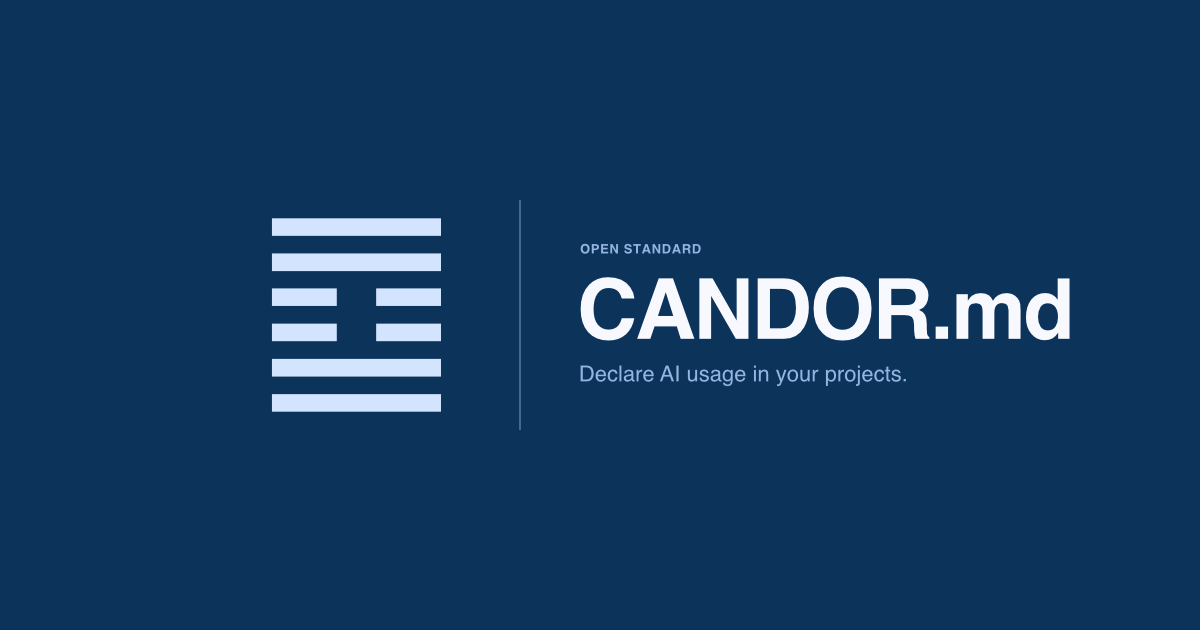
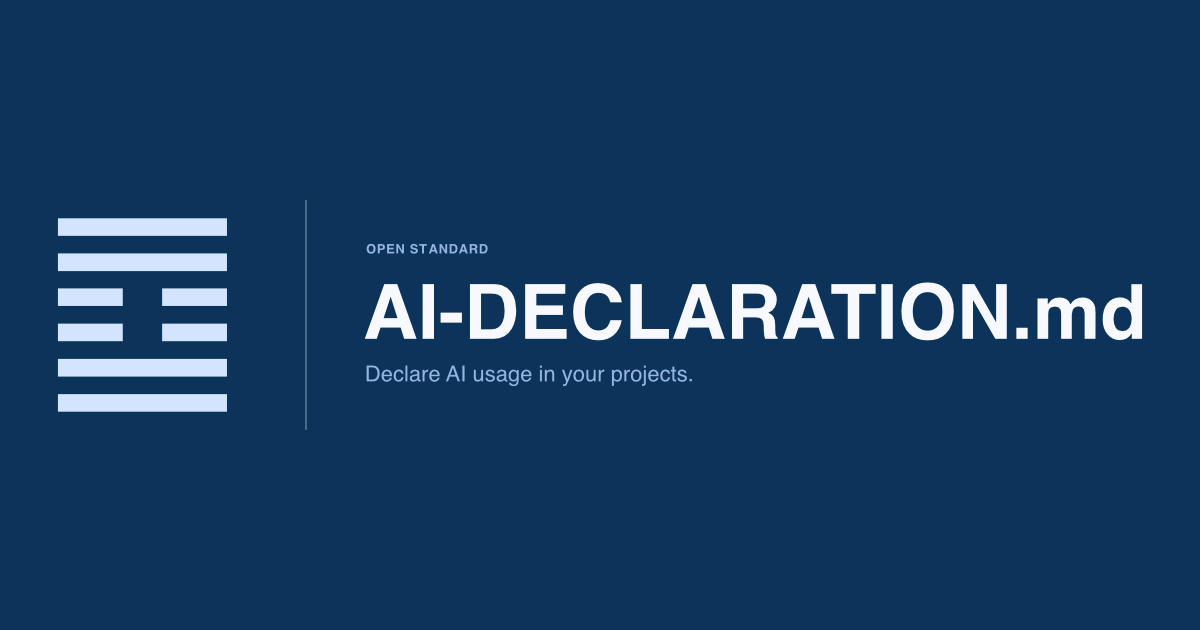
feat!: add v0.1.1 with rename to AI-DECLARATION.md for simplicity

Changed region(s): [[0.0308, 0.3317, 0.9558, 0.6635]]

diff --git a/site/index.html b/site/index.html
@@ -3,18 +3,18 @@
 <head>
   <meta charset="UTF-8">
   <meta name="viewport" content="width=device-width, initial-scale=1.0">
-  <title>CANDOR.md | Open Standard for AI Usage Transparency</title>
-  <meta name="description" content="An open standard for declaring AI usage in software projects. Like a LICENSE or README, CANDOR.md makes AI involvement transparent and consistent.">
+  <title>AI-DECLARATION.md | Open Standard for AI Usage Transparency</title>
+  <meta name="description" content="An open standard for declaring AI usage in software projects. Like a LICENSE or README, AI-DECLARATION.md makes AI involvement transparent and consistent.">
   <meta property="og:type" content="website">
-  <meta property="og:title" content="CANDOR.md | Open Standard for AI Usage Transparency">
-  <meta property="og:description" content="An open standard for declaring AI usage in software projects. Like a LICENSE or README, CANDOR.md makes AI involvement transparent and consistent.">
-  <meta property="og:image" content="https://candor.md/www/og-image.png">
-  <meta property="og:url" content="https://candor.md">
-  <meta property="og:site_name" content="CANDOR.md">
+  <meta property="og:title" content="AI-DECLARATION.md | Open Standard for AI Usage Transparency">
+  <meta property="og:description" content="An open standard for declaring AI usage in software projects. Like a LICENSE or README, AI-DECLARATION.md makes AI involvement transparent and consistent.">
+  <meta property="og:image" content="https://ai-declaration.md/www/og-image.png">
+  <meta property="og:url" content="https://ai-declaration.md">
+  <meta property="og:site_name" content="AI-DECLARATION.md">
   <meta name="twitter:card" content="summary_large_image">
-  <meta name="twitter:title" content="CANDOR.md | Open Standard for AI Usage Transparency">
-  <meta name="twitter:description" content="An open standard for declaring AI usage in software projects. Like a LICENSE or README, CANDOR.md makes AI involvement transparent and consistent.">
-  <meta name="twitter:image" content="https://candor.md/www/og-image.png">
+  <meta name="twitter:title" content="AI-DECLARATION.md | Open Standard for AI Usage Transparency">
+  <meta name="twitter:description" content="An open standard for declaring AI usage in software projects. Like a LICENSE or README, AI-DECLARATION.md makes AI involvement transparent and consistent.">
+  <meta name="twitter:image" content="https://ai-declaration.md/www/og-image.png">
   <link rel="icon" href="www/logo.svg">
   <link rel="preconnect" href="https://fonts.googleapis.com">
   <link rel="preconnect" href="https://fonts.gstatic.com" crossorigin>
@@ -25,18 +25,18 @@
 
 <nav>
   <a class="nav-mark" href="#">
-    <span class="hex">䷼</span> CANDOR.md
+    <span class="hex">䷼</span> AI-DECLARATION.md
   </a>
   <div class="nav-right">
     <span class="nav-version">v0.1.0</span>
-    <a href="https://github.com/DimwitLabs/CANDOR.md">GitHub</a>
+    <a href="https://github.com/DimwitLabs/AI-DECLARATION.md">GitHub</a>
   </div>
 </nav>
 
 <div class="wrap">
 
   <section id="hero">
-    <div class="hero-title"><span class="hero-hex">䷼</span><h1>CANDOR.md</h1></div>
+    <div class="hero-title"><span class="hero-hex">䷼</span><h1>AI-DECLARATION.md</h1></div>
     <div class="hero-nav">
       <a href="#summary">Summary</a>
       <span class="hero-nav-sep">·</span>
@@ -53,15 +53,14 @@
 
   <section class="doc-section" id="summary">
     <h2>Summary</h2>
-    <p>AI-generated code is a reality of our time and it is both a blessing and a curse. The problem is not the code in itself but transparency and clarity. At least, that is the working theory of this specification. The suggestion is simple: to invite everyone to include a structured <code>CANDOR.md</code> file like they include other files in a repository to make the AI-usage crystal clear <em>and</em>, more importantly, to make it a widespread convention to do so.</p>
+    <p>AI-generated code is a reality of our time and it is both a blessing and a curse. The problem is not the code in itself but transparency and clarity. At least, that is the working theory of this specification. The suggestion is simple: to invite everyone to include a structured <code>AI-DECLARATION.md</code> file like they include other files in a repository to make the AI-usage crystal clear <em>and</em>, more importantly, to make it a widespread convention to do so.</p>
     <p>This is not to discourage usage of LLM- and other code-generation in the future. On the contrary, it is an enabler. When you declare what parts of the code were, in fact, generated, a skeptic can immediately look into just those parts to satisfy their urge to re-verify and double-check. And, it lets the creator showcase their skillset with code and their skillset with planning and other soft skills simultaneously and with clarity.</p>
-    <p>The name is intentional. Candor is a noun meaning:</p>
     <blockquote>The quality of being open and honest; frankness.</blockquote>
   </section>
 
   <section class="doc-section" id="specification">
     <h2>Specification</h2>
-    <p>A <code>CANDOR.md</code> file uses YAML frontmatter for structured fields, followed by a required <code>## Notes</code> section in the markdown body for human context. At minimum, it requires <code>version</code>, <code>level</code>, and a <code>## Notes</code> section.</p>
+    <p>An <code>AI-DECLARATION.md</code> file uses YAML frontmatter for structured fields, followed by a required <code>## Notes</code> section in the markdown body for human context. At minimum, it requires <code>version</code>, <code>level</code>, and a <code>## Notes</code> section.</p>
     <p>Optionally, you can declare <code>processes</code>, each with their own level. The global <code>level</code> must be the highest level present. Any process not listed is assumed to be <code>none</code> implicitly. You can also list <code>components</code> (file paths or directories) with individual levels.</p>
     <p>The specification formally defines <code>version</code>, <code>level</code>, <code>processes</code>, and <code>components</code>.</p>
 
@@ -92,7 +91,7 @@
 
     <div class="example-group">
       <p class="example-hed">Simple</p>
-      <p>The simplest <code>CANDOR.md</code> requires <code>version</code>, <code>level</code>, and a <code>## Notes</code> section.</p>
+      <p>The simplest <code>AI-DECLARATION.md</code> requires <code>version</code>, <code>level</code>, and a <code>## Notes</code> section.</p>
       <pre>---
 version: "0.1.0"
 level: none
@@ -145,31 +144,31 @@ components:
 
   <section class="doc-section" id="badges">
     <h2>Badges</h2>
-    <p>Add a badge to your <code>README</code> to declare your <code>CANDOR</code> level at a glance. Please note, this is just for convenience and to comply with the specification, you <em>must</em> include a <code>CANDOR.md</code> file.</p>
+    <p>Add a badge to your <code>README</code> to declare your <code>AI-DECLARATION</code> level at a glance. Please note, this is just for convenience and to comply with the specification, you <em>must</em> include an <code>AI-DECLARATION.md</code> file.</p>
     <ul class="badge-list">
       <li>
-        <img src="https://img.shields.io/badge/䷼%20CANDOR-none-dcfce7?labelColor=dcfce7" alt="CANDOR: none">
-        <button class="copy-btn" data-copy="[![CANDOR: none](https://img.shields.io/badge/䷼%20CANDOR-none-dcfce7?labelColor=dcfce7)](https://candor.md)">Copy</button>
+        <img src="https://img.shields.io/badge/䷼%20AI--DECLARATION-none-dcfce7?labelColor=dcfce7" alt="AI-DECLARATION: none">
+        <button class="copy-btn" data-copy="[![AI-DECLARATION: none](https://img.shields.io/badge/䷼%20AI--DECLARATION-none-dcfce7?labelColor=dcfce7)](https://ai-declaration.md)">Copy</button>
       </li>
       <li>
-        <img src="https://img.shields.io/badge/䷼%20CANDOR-hint-ecfccb?labelColor=ecfccb" alt="CANDOR: hint">
-        <button class="copy-btn" data-copy="[![CANDOR: hint](https://img.shields.io/badge/䷼%20CANDOR-hint-ecfccb?labelColor=ecfccb)](https://candor.md)">Copy</button>
+        <img src="https://img.shields.io/badge/䷼%20AI--DECLARATION-hint-ecfccb?labelColor=ecfccb" alt="AI-DECLARATION: hint">
+        <button class="copy-btn" data-copy="[![AI-DECLARATION: hint](https://img.shields.io/badge/䷼%20AI--DECLARATION-hint-ecfccb?labelColor=ecfccb)](https://ai-declaration.md)">Copy</button>
       </li>
       <li>
-        <img src="https://img.shields.io/badge/䷼%20CANDOR-assist-fef9c3?labelColor=fef9c3" alt="CANDOR: assist">
-        <button class="copy-btn" data-copy="[![CANDOR: assist](https://img.shields.io/badge/䷼%20CANDOR-assist-fef9c3?labelColor=fef9c3)](https://candor.md)">Copy</button>
+        <img src="https://img.shields.io/badge/䷼%20AI--DECLARATION-assist-fef9c3?labelColor=fef9c3" alt="AI-DECLARATION: assist">
+        <button class="copy-btn" data-copy="[![AI-DECLARATION: assist](https://img.shields.io/badge/䷼%20AI--DECLARATION-assist-fef9c3?labelColor=fef9c3)](https://ai-declaration.md)">Copy</button>
       </li>
       <li>
-        <img src="https://img.shields.io/badge/䷼%20CANDOR-pair-ffedd5?labelColor=ffedd5" alt="CANDOR: pair">
-        <button class="copy-btn" data-copy="[![CANDOR: pair](https://img.shields.io/badge/䷼%20CANDOR-pair-ffedd5?labelColor=ffedd5)](https://candor.md)">Copy</button>
+        <img src="https://img.shields.io/badge/䷼%20AI--DECLARATION-pair-ffedd5?labelColor=ffedd5" alt="AI-DECLARATION: pair">
+        <button class="copy-btn" data-copy="[![AI-DECLARATION: pair](https://img.shields.io/badge/䷼%20AI--DECLARATION-pair-ffedd5?labelColor=ffedd5)](https://ai-declaration.md)">Copy</button>
       </li>
       <li>
-        <img src="https://img.shields.io/badge/䷼%20CANDOR-copilot-fee2e2?labelColor=fee2e2" alt="CANDOR: copilot">
-        <button class="copy-btn" data-copy="[![CANDOR: copilot](https://img.shields.io/badge/䷼%20CANDOR-copilot-fee2e2?labelColor=fee2e2)](https://candor.md)">Copy</button>
+        <img src="https://img.shields.io/badge/䷼%20AI--DECLARATION-copilot-fee2e2?labelColor=fee2e2" alt="AI-DECLARATION: copilot">
+        <button class="copy-btn" data-copy="[![AI-DECLARATION: copilot](https://img.shields.io/badge/䷼%20AI--DECLARATION-copilot-fee2e2?labelColor=fee2e2)](https://ai-declaration.md)">Copy</button>
       </li>
       <li>
-        <img src="https://img.shields.io/badge/䷼%20CANDOR-auto-ede9fe?labelColor=ede9fe" alt="CANDOR: auto">
-        <button class="copy-btn" data-copy="[![CANDOR: auto](https://img.shields.io/badge/䷼%20CANDOR-auto-ede9fe?labelColor=ede9fe)](https://candor.md)">Copy</button>
+        <img src="https://img.shields.io/badge/䷼%20AI--DECLARATION-auto-ede9fe?labelColor=ede9fe" alt="AI-DECLARATION: auto">
+        <button class="copy-btn" data-copy="[![AI-DECLARATION: auto](https://img.shields.io/badge/䷼%20AI--DECLARATION-auto-ede9fe?labelColor=ede9fe)](https://ai-declaration.md)">Copy</button>
       </li>
     </ul>
   </section>
@@ -179,7 +178,7 @@ components:
     <div class="faq-list">
       <details open>
         <summary>What if I lie?</summary>
-        <div class="faq-answer">Well, that defeats the purpose entirely, doesn't it? The idea is for all of us to have a social contract that we can trust. If you see a repo with a <code>CANDOR.md</code> in it, you can use it as a single source of truth.</div>
+        <div class="faq-answer">Well, that defeats the purpose entirely, doesn't it? The idea is for all of us to have a social contract that we can trust. If you see a repo with an <code>AI-DECLARATION.md</code> in it, you can use it as a single source of truth.</div>
       </details>
       <details open>
         <summary>Can I build tooling to generate this automatically?</summary>
@@ -195,7 +194,7 @@ components:
       </details>
       <details open>
         <summary>Do I need to include the file if I added a badge to my README?</summary>
-        <div class="faq-answer">Yes, the recommendation is to include a <code>CANDOR.md</code> as the primary source of truth. The badge in the <code>README</code> is just a glanceable way for someone to check that A, the <code>CANDOR.md</code> would be available and B, the level.</div>
+        <div class="faq-answer">Yes, the recommendation is to include an <code>AI-DECLARATION.md</code> as the primary source of truth. The badge in the <code>README</code> is just a glanceable way for someone to check that A, the <code>AI-DECLARATION.md</code> would be available and B, the level.</div>
       </details>
       <details open>
         <summary>What is the logo?</summary>
@@ -209,7 +208,7 @@ components:
 
 <footer>
   <div class="footer-inner">
-    <p><span>䷼ CANDOR.md &nbsp;·&nbsp; MIT License</span><span class="footer-sep"> &nbsp;·&nbsp; </span><span class="footer-item"><a href="https://dimwit.me">Dimwit Labs</a></span><span class="footer-sep"> &nbsp;·&nbsp; </span><span class="footer-item"><a href="https://github.com/DimwitLabs/CANDOR.md">GitHub</a></span></p>
+    <p><span>䷼ AI-DECLARATION.md &nbsp;·&nbsp; MIT License</span><span class="footer-sep"> &nbsp;·&nbsp; </span><span class="footer-item"><a href="https://dimwit.me">Dimwit Labs</a></span><span class="footer-sep"> &nbsp;·&nbsp; </span><span class="footer-item"><a href="https://github.com/DimwitLabs/AI-DECLARATION.md">GitHub</a></span></p>
   </div>
 </footer>
 

diff --git a/README.md b/README.md
@@ -1,19 +1,15 @@
-# CANDOR.md
+# AI-DECLARATION.md
 
-[![CANDOR: copilot](https://img.shields.io/badge/䷼%20CANDOR-copilot-fee2e2?labelColor=fee2e2)](https://candor.md)
+[![AI-DECLARATION: copilot](https://img.shields.io/badge/䷼%20AI--DECLARATION-copilot-fee2e2?labelColor=fee2e2)](https://ai-declaration.md)
 
 ## Summary
-AI-generated code is a reality of our time and it is both a blessing and a curse. The problem is not the code in itself but transparency and clarity. At least, that is the working theory of this specification. The suggestion is simple: to invite everyone to include a structured `CANDOR.md` file like they include other files in a repository to make the AI-usage crystal clear _and_, more importantly, to make it a widespread convention to do so.
+AI-generated code is a reality of our time and it is both a blessing and a curse. The problem is not the code in itself but transparency and clarity. At least, that is the working theory of this specification. The suggestion is simple: to invite everyone to include a structured `AI-DECLARATION.md` file like they include other files in a repository to make the AI-usage crystal clear _and_, more importantly, to make it a widespread convention to do so.
 
 This is not to discourage usage of LLM- and other code-generation in the future. On the contrary, it is an enabler. When you declare what parts of the code were, in fact, generated, a skeptic can immediately look into just those parts to satisfy their urge to re-verify and double-check. And, it lets the creator showcase their skillset with code and their skillset with planning and other soft skills simultaneously and with clarity.
 
-The name is intentional. Candor is a noun meaning:
-
-> The quality of being open and honest; frankness.
-
 ### Specification
 
-A `CANDOR.md` file uses YAML frontmatter for structured fields, followed by a required `## Notes` section in the markdown body for human context. At minimum, it requires `version`, `level`, and a `## Notes` section.
+An `AI-DECLARATION.md` file uses YAML frontmatter for structured fields, followed by a required `## Notes` section in the markdown body for human context. At minimum, it requires `version`, `level`, and a `## Notes` section.
 
 Optionally, you can declare `processes`, each with their own level. The global `level` must be the highest level present. Any process not listed is assumed to be `none` implicitly. You can also list `components` (file paths or directories) with individual levels.
 
@@ -43,7 +39,7 @@ Below, you will find some examples of different scenarios.
 
 #### Simple
 
-The simplest `CANDOR.md` requires `version`, `level`, and a `## Notes` section.
+The simplest `AI-DECLARATION.md` requires `version`, `level`, and a `## Notes` section.
 
 ```markdown
 ---
@@ -104,19 +100,19 @@ components:
 
 ## Badges
 
-Add a badge to your `README` to declare your `CANDOR` level at a glance. Please note, this is just for convenience and to comply with the specification, you _must_ include a `CANDOR.md` file.
+Add a badge to your `README` to declare your `AI-DECLARATION` level at a glance. Please note, this is just for convenience and to comply with the specification, you _must_ include an `AI-DECLARATION.md` file.
 
-- [![CANDOR: none](https://img.shields.io/badge/䷼%20CANDOR-none-dcfce7?labelColor=dcfce7)](https://candor.md)
-- [![CANDOR: hint](https://img.shields.io/badge/䷼%20CANDOR-hint-ecfccb?labelColor=ecfccb)](https://candor.md)
-- [![CANDOR: assist](https://img.shields.io/badge/䷼%20CANDOR-assist-fef9c3?labelColor=fef9c3)](https://candor.md)
-- [![CANDOR: pair](https://img.shields.io/badge/䷼%20CANDOR-pair-ffedd5?labelColor=ffedd5)](https://candor.md)
-- [![CANDOR: copilot](https://img.shields.io/badge/䷼%20CANDOR-copilot-fee2e2?labelColor=fee2e2)](https://candor.md)
-- [![CANDOR: auto](https://img.shields.io/badge/䷼%20CANDOR-auto-ede9fe?labelColor=ede9fe)](https://candor.md)
+- [![AI-DECLARATION: none](https://img.shields.io/badge/䷼%20AI--DECLARATION-none-dcfce7?labelColor=dcfce7)](https://ai-declaration.md)
+- [![AI-DECLARATION: hint](https://img.shields.io/badge/䷼%20AI--DECLARATION-hint-ecfccb?labelColor=ecfccb)](https://ai-declaration.md)
+- [![AI-DECLARATION: assist](https://img.shields.io/badge/䷼%20AI--DECLARATION-assist-fef9c3?labelColor=fef9c3)](https://ai-declaration.md)
+- [![AI-DECLARATION: pair](https://img.shields.io/badge/䷼%20AI--DECLARATION-pair-ffedd5?labelColor=ffedd5)](https://ai-declaration.md)
+- [![AI-DECLARATION: copilot](https://img.shields.io/badge/䷼%20AI--DECLARATION-copilot-fee2e2?labelColor=fee2e2)](https://ai-declaration.md)
+- [![AI-DECLARATION: auto](https://img.shields.io/badge/䷼%20AI--DECLARATION-auto-ede9fe?labelColor=ede9fe)](https://ai-declaration.md)
 
 ## FAQ
 
 ### What if I lie?
-Well, that defeats the purpose entirely, doesn't it? The idea is for all of us to have a social contract that we can trust. If you see a repo with a `CANDOR.md` in it, you can use it as a single source of truth.
+Well, that defeats the purpose entirely, doesn't it? The idea is for all of us to have a social contract that we can trust. If you see a repo with an `AI-DECLARATION.md` in it, you can use it as a single source of truth.
 
 ### Can I build tooling to generate this automatically?
 Be my guest. I envision tooling to build it automatically as well as parse it. While I will do it at some point, I appreciate any or all contributions.
@@ -128,7 +124,7 @@ Absolutely! Please. Just fork the repository and add a `README_<locale>.md` e.g.
 Well, good thing it is open-source then. I see the specification evolving naturally with feedback and PRs. So, let us all discuss.
 
 ### Do I need to include the file if I added a badge to my README?
-Yes, the recommendation is to include a `CANDOR.md` as the primary source of truth. The badge in the `README` is just a glanceable way for someone to check that A, the `CANDOR.md` would be available and B, the level.
+Yes, the recommendation is to include an `AI-DECLARATION.md` as the primary source of truth. The badge in the `README` is just a glanceable way for someone to check that A, the `AI-DECLARATION.md` would be available and B, the level.
 
 ### What is the logo?
 ䷼ Hexagram 61 or Hexagram For Inner Truth (Unicode: `U+4DFC`) is one of 64 hexagrams in the Yi (I) Ching to illustrate principles where each line is either Yin (broken) or Yang (solid). ([source](https://en.wikipedia.org/wiki/List_of_hexagrams_of_the_I_Ching#Hexagram_61))

diff --git a/CHANGELOG.md b/CHANGELOG.md
@@ -4,6 +4,12 @@ All notable changes to this project will be documented in this file.
 
 The format is based on [Keep a Changelog](https://keepachangelog.com/en/1.0.0/) and this project adheres to [Semantic Versioning](https://semver.org/spec/v2.0.0.html).
 
+## [0.1.1] - 2026-04-06
+
+### Changed
+
+- Renamed from `CANDOR.md` to `AI-DECLARATION.md` after feedback from the [Reddit Discussion](https://www.reddit.com/r/selfhosted/comments/1sgizki/suggestion_candormd_an_open_convention_to_declare/).
+
 ## [0.1.0] - 2026-04-06
 
 ### Added
